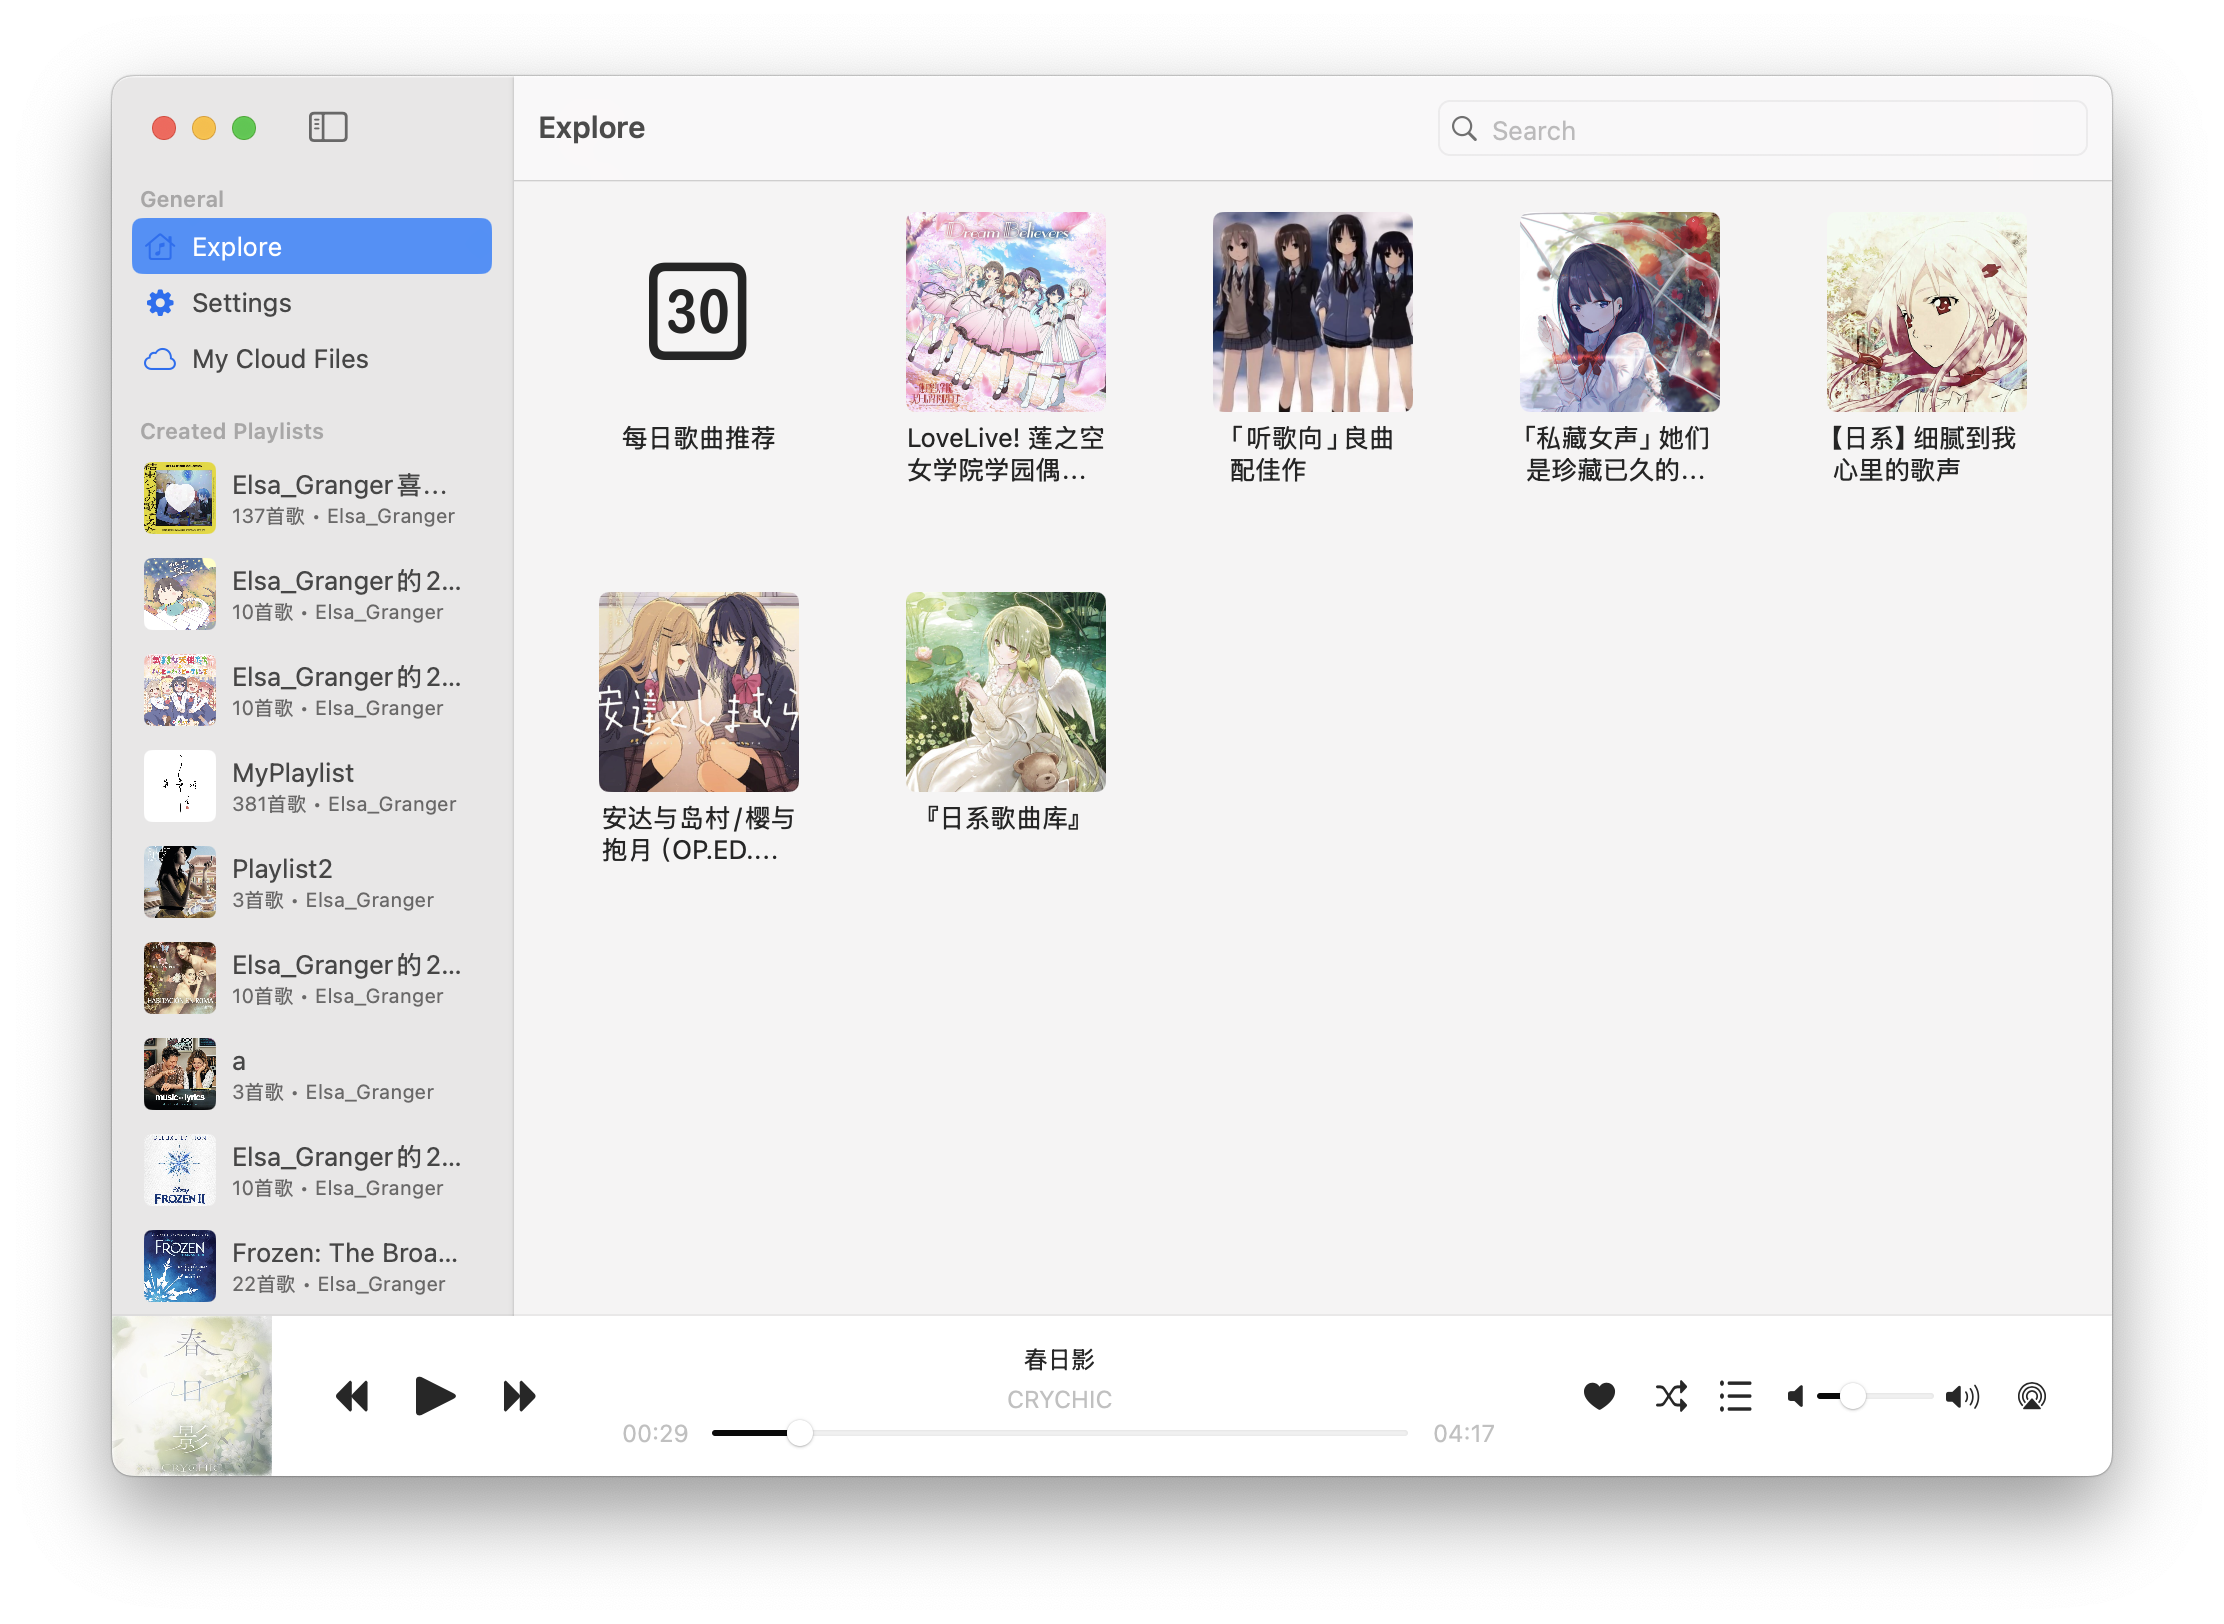
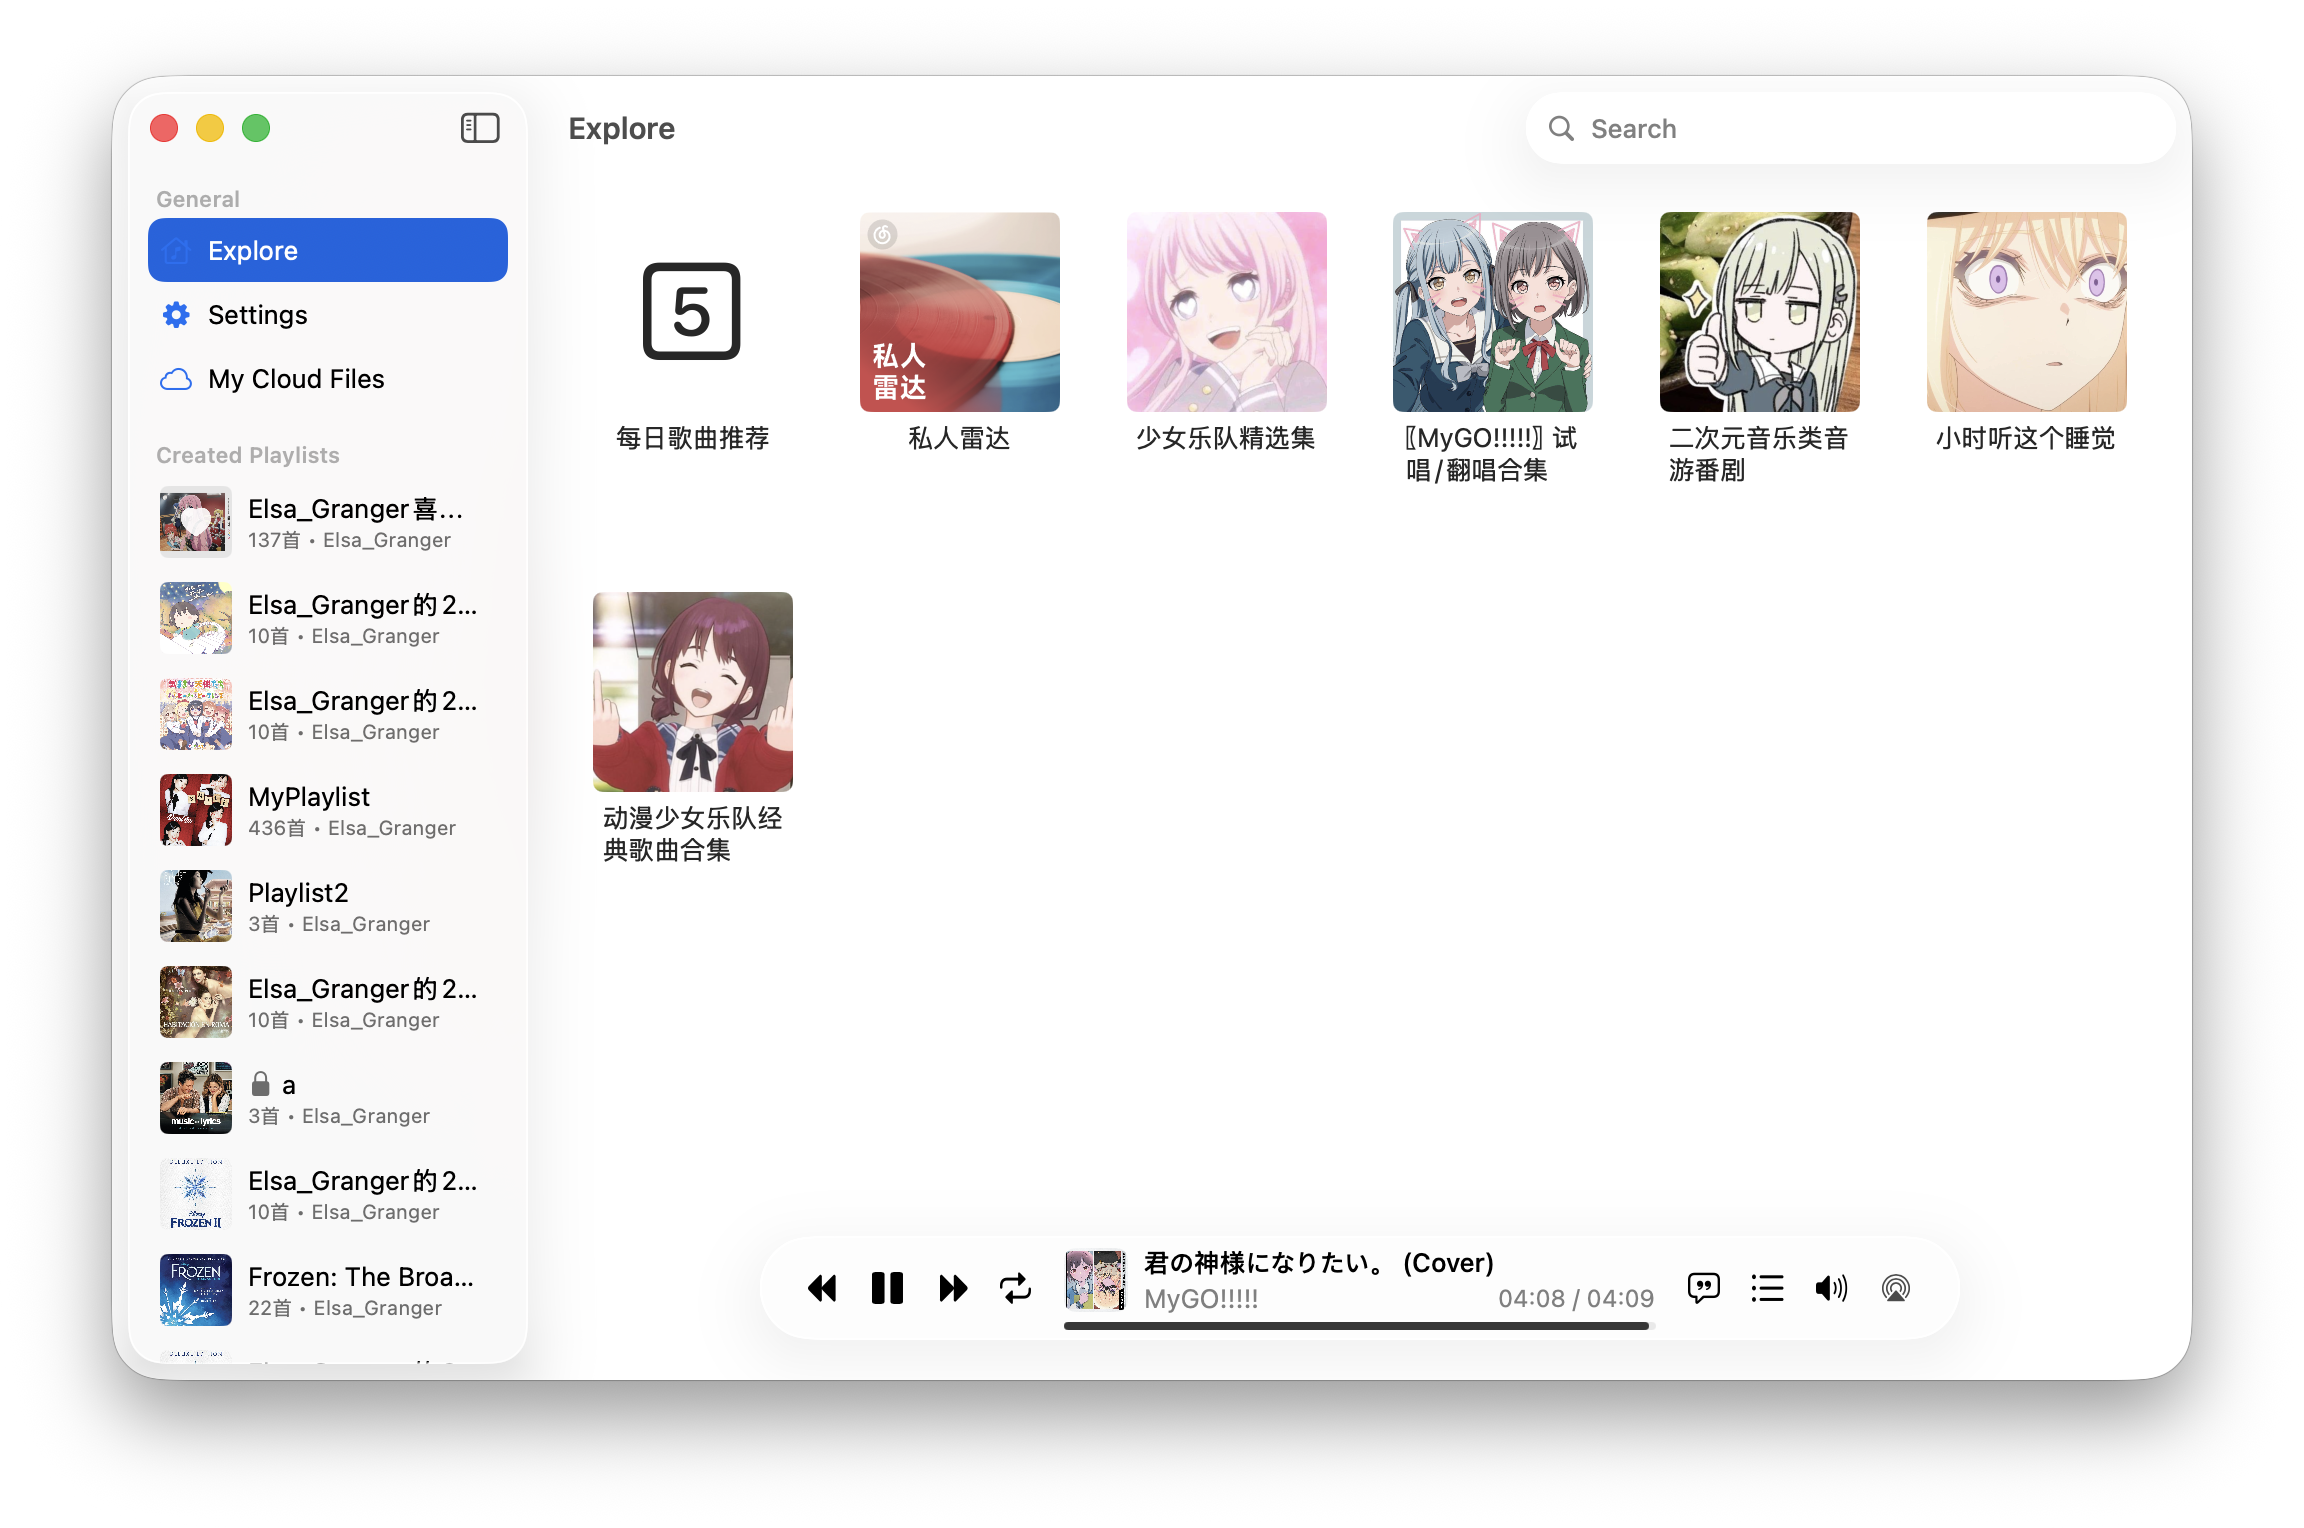
update readme

diff --git a/ReadMe.md b/ReadMe.md
@@ -1,6 +1,6 @@
 # MusicBox
 
-用 SwiftUI 实现的网易云播放器
+用 SwiftUI 实现的网易云播放器，为 macOS 26 的 Liquid Glass 提供了专门的支持，在旧版本的系统上面的显示可能会出问题。
 
 ## 功能特性
 
